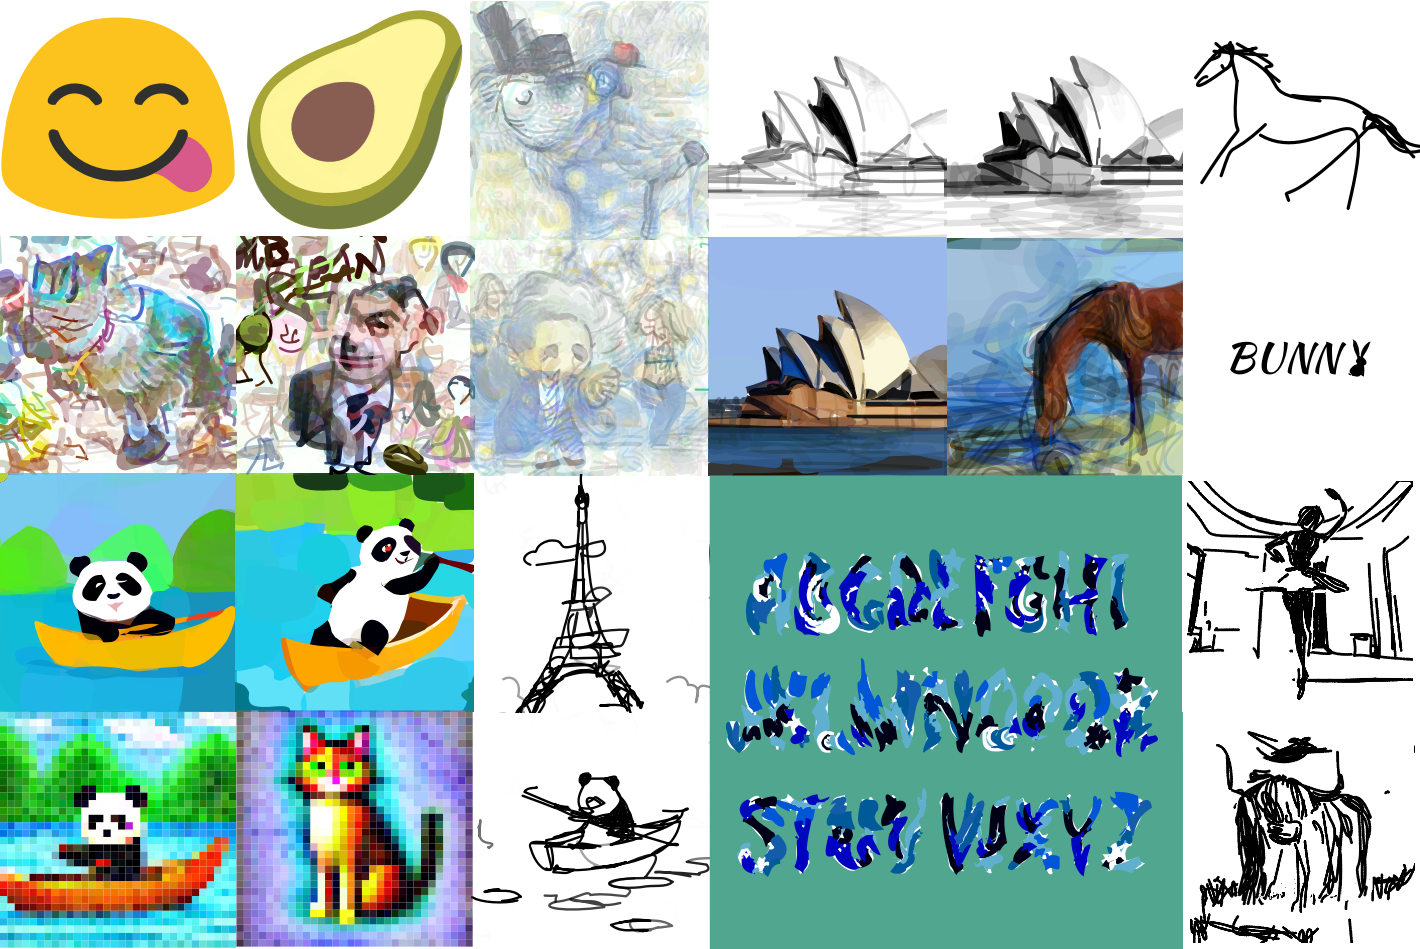
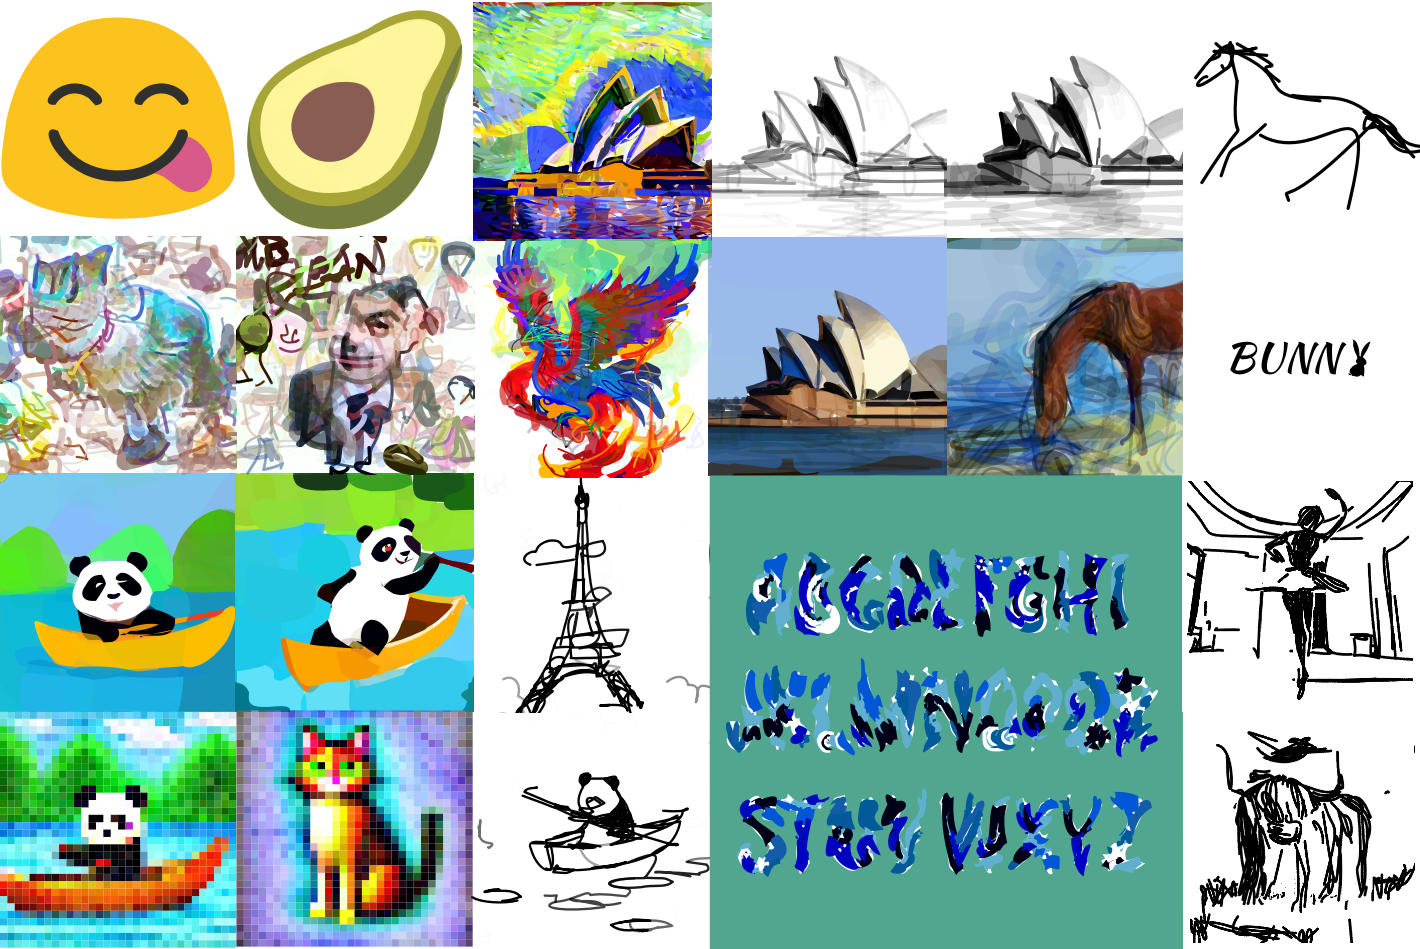
fix: teaser

Changed region(s): [[0.3099, 0.0, 0.5268, 0.5195]]

diff --git a/index.html b/index.html
@@ -1321,6 +1321,31 @@
                             <div class="row justify-content-md-center align-items-center">
                                 <div class="col">
                                     <figure class="figure">
+                                        <img src="assets/svgdreamer/Sydney.png" class="img-fluid rounded mx-auto d-block">
+                                    </figure>
+                                    <figure class="figure">
+                                        <img src="assets/svgdreamer/Sydney.gif" class="img-fluid rounded mx-auto d-block">
+                                    </figure>
+                                </div>
+                            </div>
+                            <div class="row justify-content-md-center align-items-center">
+                                <h5 class="card-title"></h5>
+                                <p class="card-text">
+                                    Prompt: "Sydney opera house. oil painting. by Van Gogh"
+                                </p>
+                            </div>
+                        </div>
+                    </div> <!-- End Card 1 -->
+                    <!-- Card 2 -->
+                    <div class="card">
+                        <div class="card-body">
+                            <div class="row">
+                                <h3 style="text-align: left;">Oil Painting</h3>
+                            </div>
+                            <br />
+                            <div class="row justify-content-md-center align-items-center">
+                                <div class="col">
+                                    <figure class="figure">
                                         <img src="assets/svgdreamer/phoenix.png"
                                              class="img-fluid rounded mx-auto d-block">
                                     </figure>
@@ -1336,34 +1361,7 @@
                                 </p>
                             </div>
                         </div>
-                    </div> 
-                    <!-- Card 1 -->
-                    <div class="card">
-                        <div class="card-body">
-                            <div class="row">
-                                <h3 style="text-align: left;">Oil painting</h3>
-                            </div>
-                            <br />
-                            <div class="row justify-content-md-center align-items-center">
-                                <div class="col">
-                                    <figure class="figure">
-                                        <img src="assets/svgdreamer/Sydney.png"
-                                             class="img-fluid rounded mx-auto d-block">
-                                    </figure>
-                                    <figure class="figure">
-                                        <img src="assets/svgdreamer/Sydney.gif"
-                                             class="img-fluid rounded mx-auto d-block">
-                                    </figure>
-                                </div>
-                            </div>
-                            <div class="row justify-content-md-center align-items-center">
-                                <h5 class="card-title"></h5>
-                                <p class="card-text">
-                                    Prompt: "Sydney opera house. oil painting. by Van Gogh"
-                                </p>
-                            </div>
-                        </div>
-                    </div> <!-- End Card 1 -->
+                    </div> <!-- End Card 2 -->
                 </div>
                 <br/>
             </div>
